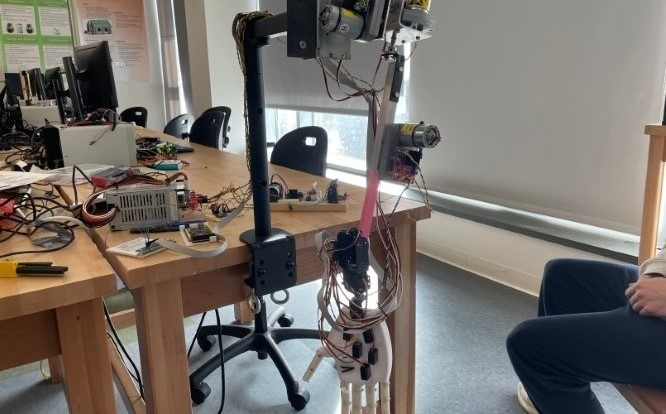
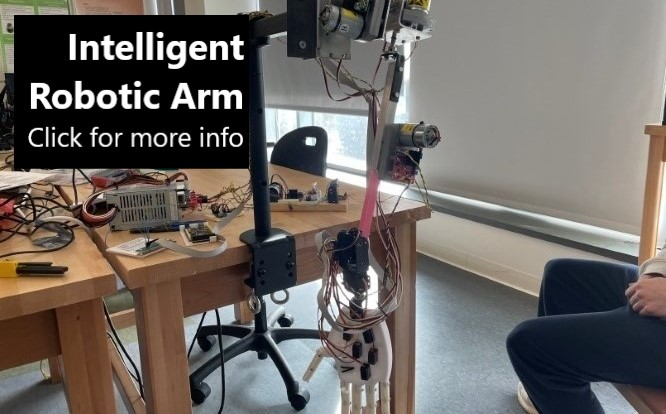
First draft of page for intelligent robotic arm

Changed region(s): [[0.0, 0.029, 0.3904, 0.4058]]

diff --git a/project_pages/arm.html b/project_pages/arm.html
@@ -5,53 +5,108 @@
   <!-- Global site tag (gtag.js) - Google Analytics -->
   <script async src="https://www.googletagmanager.com/gtag/js?id=G-3Y6Y8GD18B"></script>
   <script>
-  window.dataLayer = window.dataLayer || [];
-  function gtag(){dataLayer.push(arguments);}
-  gtag('js', new Date());
+    window.dataLayer = window.dataLayer || [];
+    function gtag() { dataLayer.push(arguments); }
+    gtag('js', new Date());
 
-  gtag('config', 'G-3Y6Y8GD18B');
+    gtag('config', 'G-3Y6Y8GD18B');
   </script>
-  <meta charset = "utf-8"/>
+  <meta charset="utf-8" />
   <meta name="viewport" content="width=device-width, initial-scale=1.0">
-  <title>Blank Project</title>
+  <title>AI Robotic Arm</title>
   <link rel="stylesheet" href="../assets/main.css">
   <link rel="preconnect" href="https://fonts.gstatic.com">
   <link href="https://fonts.googleapis.com/css2?family=Lato&display=swap" rel="stylesheet">
 </head>
 
 <body>
-  <div class = "container">
+  <div class="container">
 
-    <div class = "header">
+    <div class="header">
 
-      <div class = "title">
+      <div class="title">
         <h1>Cuong Nguyen</h1>
       </div>
 
-      <div class = "nav">
+      <div class="nav">
         <a href="../index.html">PROJECTS</a>
         <a href="../about.html">ABOUT ME</a>
       </div>
 
     </div>
 
-    <div class = "about">
-      <h2> Blank Project Page </h2>
+    <div class="about">
+      <h2> Intelligent Robotic Arm </h2>
 
       <p>
-        Just a blank placeholder page
-        <br><br>The Gesture Lock and Dinosaur Game Controller have filled pages if you want to see those!
+        There is a surprisingly large market for prosthetics. There are approximately 30 million potential customers
+        worldwide.
+        And the demand for prosthetic limbs is expected to increase in the coming years, with an estimated 3.6 million
+        people in
+        the United States alone projected to have limb loss by 2050. Unfortunately, current products are often
+        expensive,
+        with costs ranging from $31,129 for a unilateral upper limb to $453,696 for multiple limb loss, according to the
+        Department of Veteran Affairs.
       </p>
+      <p>
+        Even though a person may have lost a limb, the brain functions to perform actions with that limbs are still
+        available.
+        This allows the team to train a machine-learning algorithm that correlates certain signal patterns with
+        corresponding
+        intended arm movements. The team aims to develop an intelligent prosthetic arm that strikes a balance between
+        usability,
+        complexity, and affordability.
+      </p>
+      <h3> Project Overview </h3>
+      <p>
+        The arm can be divided into three separate systems:</p>
+      <ul>
+        <li>Sensor: sensing components and digital signal processing (DSP) units that provide denoised activation
+          signals coming
+          directly from the brain neurons and muscle fibers.</li>
+        <li>Processor: a single board computer (SBC) that runs a machine learning algorithm on the sensor data, guesses
+          the
+          intended arm movement, and forwards it as a command to the robotic arm.</li>
+        <li>Actuator: the physical robotic arm and its accompanying control circuits executing the main processor’s
+          command.</li>
+      </ul>
+      <p>Team members: Cuong Nguyen, Joseph Tholley, Francis Lynch, Tyler Jordan, Gaetano Ippolito, John Cafferky.</p>
 
-      <h3> Project Pages </h3>
-      <p>Includes documentation, code, and schematics. Click either of these links:</p>
-      <div class = "link">
-        <a href="https://www.hackster.io/cuongvnus2001" target="_blank">Hackster<br></a>
-      </div>
+      <h3>Actuators</h3>
+      <img src="../files/images/big_arm_og.jpg" alt="Big arm" width="70%" height="auto">
+      <p>This big arm setup is passed to the team from previous graduates. The robot is to scale with a real human arm.
+        To improve our skills, the team created a smaller version. We construct the higher level frameworks with this
+        smaller system, then scale them up for the larger arm.</p>
+      <img src="../files/images/small_arm.jpg" alt="Model arm used for testing" width="70%" height="auto">
 
-      <h3> Video</h3>
-      <iframe width="560" height="315" src="https://www.youtube.com/embed/" frameborder="0" allow="accelerometer; autoplay; clipboard-write; encrypted-media; gyroscope; picture-in-picture" allowfullscreen></iframe>
 
+      <h3>Sensors</h3>
+      <iframe width="560" height="315" src="https://www.youtube.com/embed/HUoOzsGGoaQ" title="YouTube video player"
+        frameborder="0"
+        allow="accelerometer; autoplay; clipboard-write; encrypted-media; gyroscope; picture-in-picture; web-share"
+        allowfullscreen></iframe>
+      <p>Joseph Tholley demonstrates the use of EKG equipment to observe the brain activities through bioelectrical
+        signal
+        collection.</p>
+
+      <h3>Processor</h3>
+      <p>This system uses a Long Short-Team Memory neural network to interpret the bioelectrical data as arm
+        movemements. The model will mirror a ConvLSTM exercise. The exercise asks the programmer to implement a ConvLSTM
+        model that interpret data collected by a phone attached to a body. The data includes information from the
+        phone's accelerometer and gyroscope. The results include 6 common human activities: sitting, walking, walking
+        upstairs, walking downstairs, laying, standing.</p>
+      <iframe width="560" height="315" src="https://www.youtube.com/embed/XOEN9W05_4A" title="YouTube video player"
+        frameborder="0"
+        allow="accelerometer; autoplay; clipboard-write; encrypted-media; gyroscope; picture-in-picture; web-share"
+        allowfullscreen></iframe>
+      <figure>
+        <img src="../files/images/lstm_model.png" alt="ConvLSTM model" width="70%" height="auto">
+        <figcaption>Final ConvLSTM model</figcaption>
+      </figure>
+      <figure>
+        <img src="../files/images/lstm_results.png" alt="ConvLSTM model" width="70%" height="auto">
+        <figcaption>Accuracy and Standard Deviation of the Model</figcaption>
+      </figure>
     </div>
 
   </div>

diff --git a/index.html b/index.html
@@ -5,30 +5,30 @@
   <!-- Global site tag (gtag.js) - Google Analytics -->
   <script async src="https://www.googletagmanager.com/gtag/js?id=G-3Y6Y8GD18B"></script>
   <script>
-  window.dataLayer = window.dataLayer || [];
-  function gtag(){dataLayer.push(arguments);}
-  gtag('js', new Date());
+    window.dataLayer = window.dataLayer || [];
+    function gtag() { dataLayer.push(arguments); }
+    gtag('js', new Date());
 
-  gtag('config', 'G-3Y6Y8GD18B');
+    gtag('config', 'G-3Y6Y8GD18B');
   </script>
-  <meta charset = "utf-8"/>
+  <meta charset="utf-8" />
   <meta name="viewport" content="width=device-width, initial-scale=1.0">
-  <title>Cuong Nguyen Portfolio</title>
+  <title>Project Portfolio</title>
   <link rel="stylesheet" href="assets/main.css">
   <link rel="preconnect" href="https://fonts.gstatic.com">
   <link href="https://fonts.googleapis.com/css2?family=Lato&display=swap" rel="stylesheet">
 </head>
 
 <body>
-  <div class = "container">
+  <div class="container">
 
-    <div class = "header">
-      <div class = "title">
+    <div class="header">
+      <div class="title">
         <h1>Cuong Nguyen</h1>
       </div>
 
 
-      <nav class = "nav">
+      <nav class="nav">
         <a href="index.html">PROJECTS</a>
         <a href="about.html">ABOUT ME</a>
       </nav>
@@ -37,13 +37,13 @@
 
     <!-- Image Dimensons: 805 x 500 -->
     <!-- Image Font: Brahnschrift 50px, 20px-->
-    <div class = "row">
-      <div class = "content column grow">
-          <a href="project_pages/lock.html">
-            <img src="files/images/lock_1.jpg" alt="Touchless Door Opener">
-          </a>
+    <div class="row">
+      <div class="content column grow">
+        <a href="project_pages/lock.html">
+          <img src="files/images/lock_1.jpg" alt="Touchless Door Opener">
+        </a>
       </div>
-      <div class="content column grow">      
+      <div class="content column grow">
         <a href="project_pages/counter.html">
           <img src="files/images/32 bit counter.jpg" alt="32-bit Counter">
         </a>
